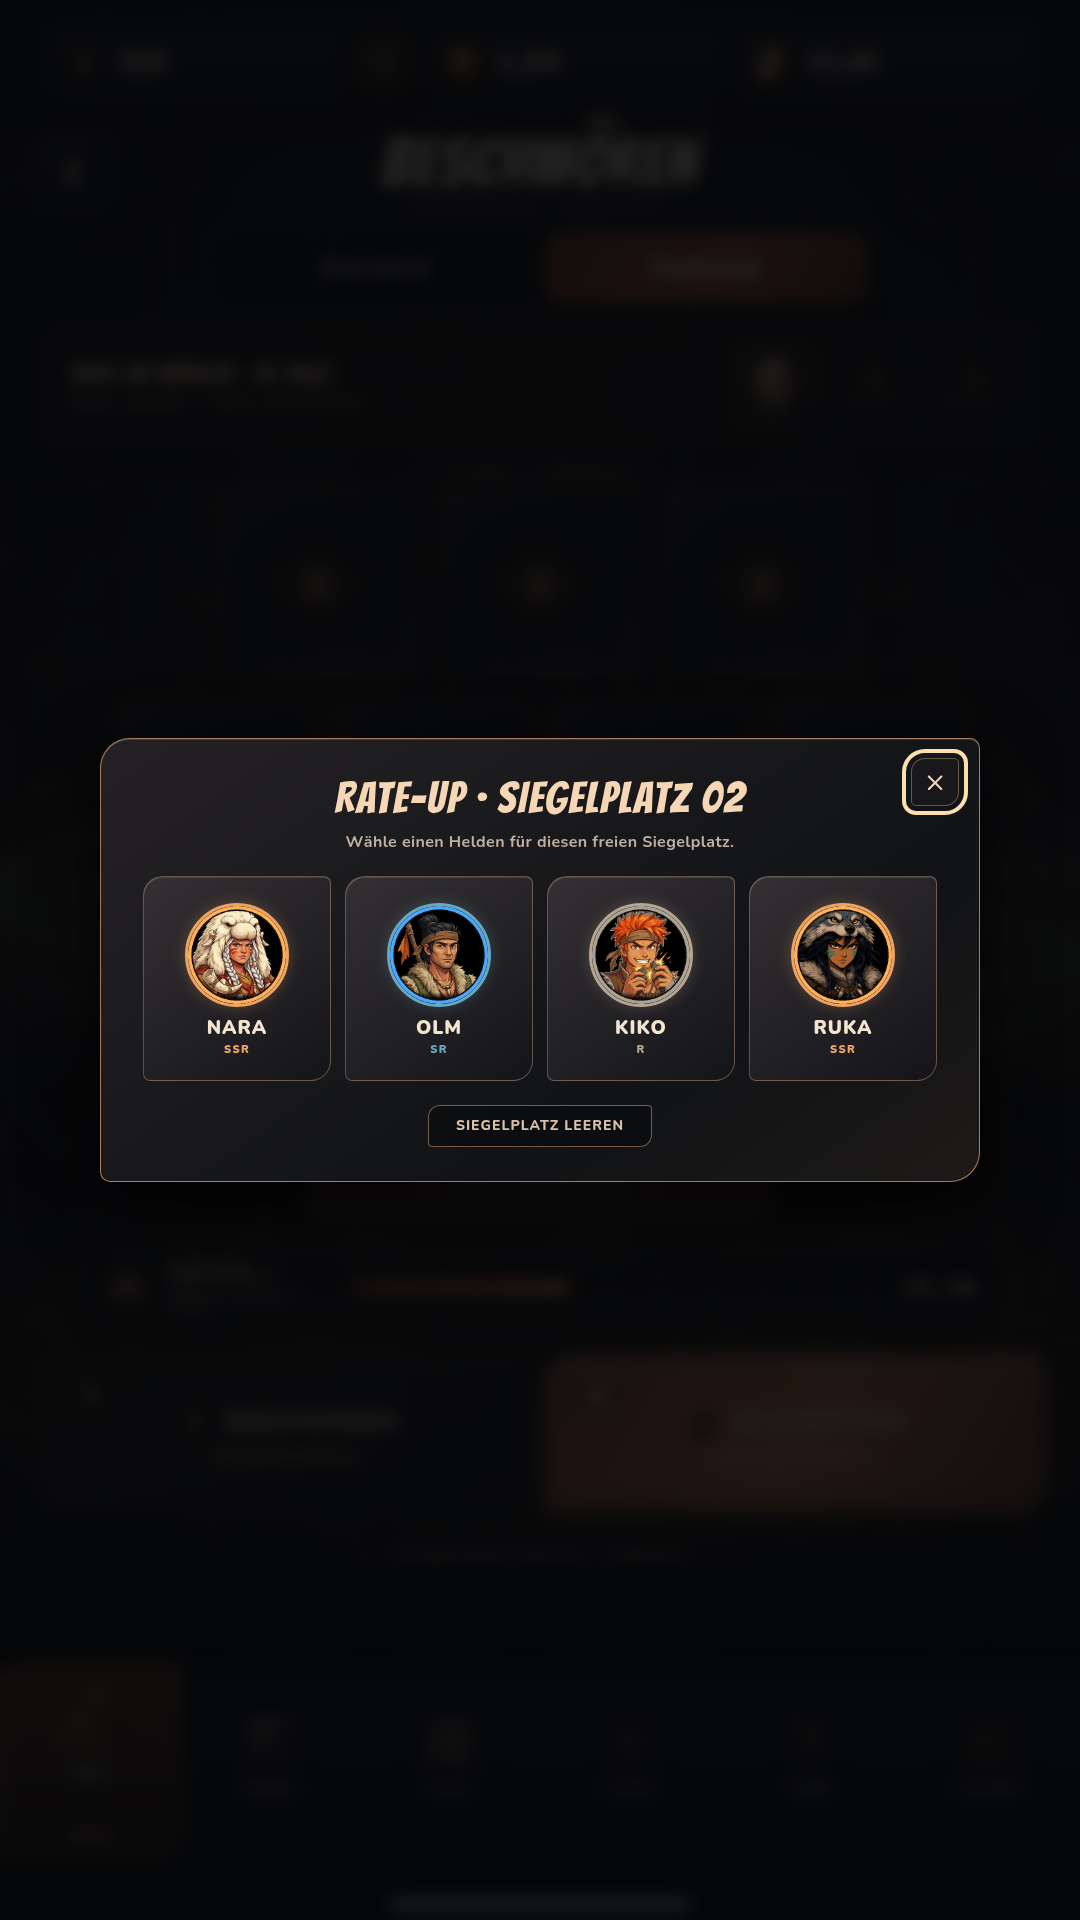
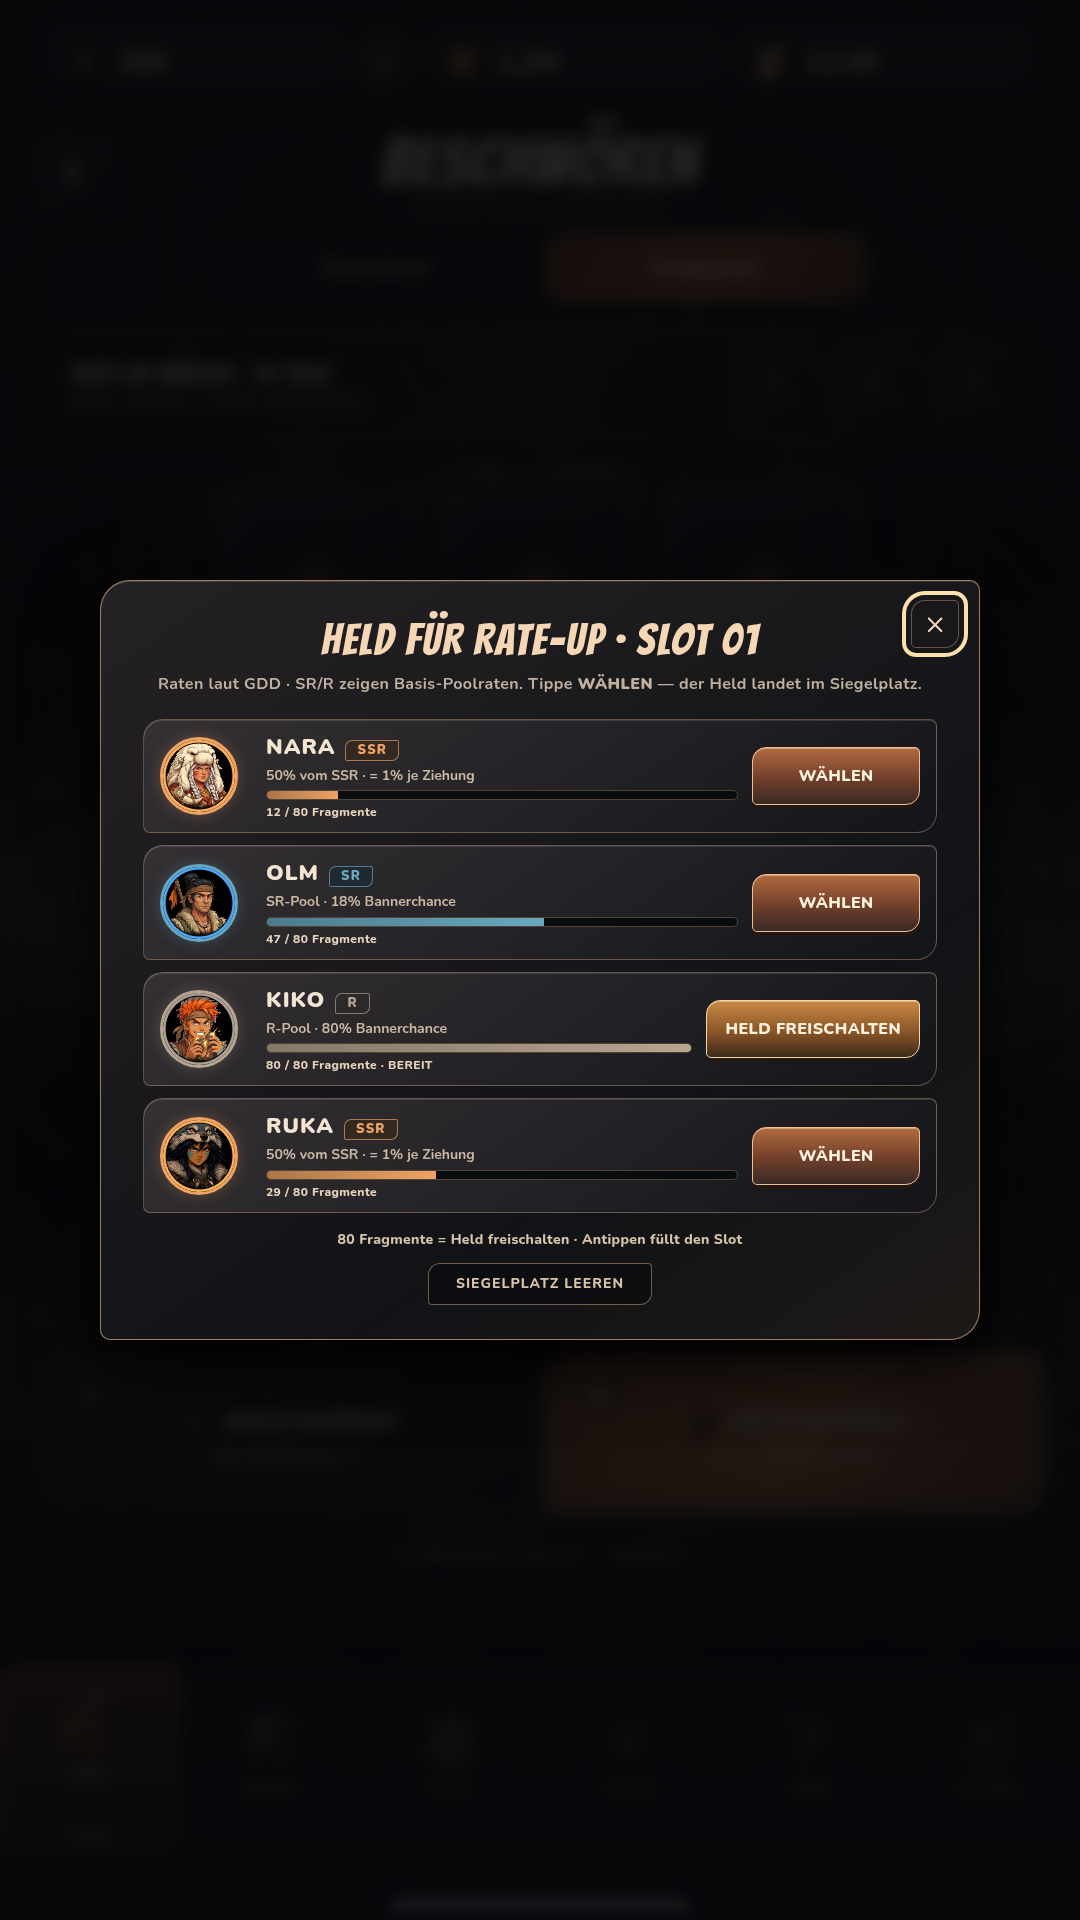
art(hud-d2): Reveal v16 Heldenwahl-Flow klarer
Picker als Liste mit Chance, Fragment-Bar und WÄHLEN-Button;
Screens: leer → Picker → gefüllt.

Changed region(s): [[0.0917, 0.2812, 0.9167, 0.6875], [0.825, 0.2812, 0.9167, 0.3438]]

diff --git a/team/art/ui-kit/menus_v3/_src/html/v3_2_obsidian_beschwoeren_reveal_v16_interaktiv.html b/team/art/ui-kit/menus_v3/_src/html/v3_2_obsidian_beschwoeren_reveal_v16_interaktiv.html
@@ -131,12 +131,23 @@ html[data-mode="standard"] .card-zone{top:366px}
 .picker-panel h2{margin:0;color:#f5d6b5;font:44px/1 Bangers;letter-spacing:1.7px}
 .picker-panel p{margin:12px 0 24px;color:#bfb09f;font:700 16px/1.3 Nunito;letter-spacing:.4px}
 .picker-close{position:absolute;right:20px;top:19px;width:48px;height:48px;border:1px solid rgba(212,168,128,.43);border-radius:14px 5px 14px 5px;background:#181719;color:#f2d6b7;font:32px/1 Nunito}
-.hero-options{display:grid;grid-template-columns:repeat(4,1fr);gap:14px}
-.hero-option{height:205px;display:flex;flex-direction:column;align-items:center;justify-content:center;border:1px solid rgba(211,171,136,.39);border-radius:20px 7px 20px 7px;background:linear-gradient(145deg,#343033,#141519);box-shadow:inset 0 1px 0 #fff2}
-.hero-option img{width:104px;height:104px;object-fit:cover;border:3px solid var(--rarity);border-radius:50%;box-shadow:0 0 15px color-mix(in srgb,var(--rarity) 28%,transparent)}
-.hero-option strong{margin-top:12px;color:#f4e5d2;font:900 19px/1 Nunito;letter-spacing:1px}
-.hero-option small{margin-top:6px;color:var(--rarity);font:900 11px/1 Nunito;letter-spacing:1.3px}
-.picker-clear{margin-top:24px;padding:13px 27px;border:1px solid rgba(205,159,119,.54);border-radius:12px 4px 12px 4px;background:rgba(11,12,14,.76);color:#d8c3aa;font:800 14px/1 Nunito;letter-spacing:1px}
+.hero-options{display:flex;flex-direction:column;gap:12px;max-height:980px;overflow:auto;text-align:left}
+.hero-option{display:grid;grid-template-columns:92px 1fr auto;gap:14px;align-items:center;padding:14px 16px;border:1px solid rgba(211,171,136,.39);border-radius:20px 7px 20px 7px;background:linear-gradient(145deg,#343033,#141519);box-shadow:inset 0 1px 0 #fff2;color:inherit;width:100%}
+.hero-option img{width:78px;height:78px;object-fit:cover;border:3px solid var(--rarity);border-radius:50%;box-shadow:0 0 15px color-mix(in srgb,var(--rarity) 28%,transparent)}
+.hero-meta{display:flex;flex-direction:column;gap:6px;min-width:0}
+.hero-meta .row{display:flex;align-items:baseline;gap:10px}
+.hero-meta strong{color:#f4e5d2;font:900 22px/1 Nunito;letter-spacing:1px}
+.hero-meta .rarity{color:var(--rarity);font:900 13px/1 Nunito;letter-spacing:1.2px}
+.hero-meta .chance{color:#cbb9a4;font:700 14px/1.25 Nunito}
+.frag-track{position:relative;height:10px;border-radius:6px;background:rgba(8,9,11,.88);border:1px solid rgba(214,169,122,.35);overflow:hidden}
+.frag-track>i{display:block;height:100%;width:var(--fill);background:linear-gradient(90deg,color-mix(in srgb,var(--rarity) 70%,#fff0),var(--rarity))}
+.frag-label{color:#e8d4bc;font:800 12px/1 Nunito;letter-spacing:.4px}
+.wahl-btn{min-width:168px;height:58px;padding:0 18px;border:1px solid #f1bf8c;border-radius:14px 5px 14px 5px;background:linear-gradient(180deg,#b26a3f,#703f2b 55%,#392a25);color:#fff2de;font:850 16px/1 Nunito;letter-spacing:.4px;box-shadow:inset 0 1px 0 rgba(255,246,231,.4),0 4px 0 #211714}
+.wahl-btn.ready{border-color:#f0d9a8;background:linear-gradient(180deg,#c98945,#8a5528 55%,#3d2a18)}
+.picker-hint{margin-top:18px;color:#d7c3aa;font:800 14px/1.3 Nunito;letter-spacing:.3px}
+.picker-clear{margin-top:14px;padding:13px 27px;border:1px solid rgba(205,159,119,.54);border-radius:12px 4px 12px 4px;background:rgba(11,12,14,.76);color:#d8c3aa;font:800 14px/1 Nunito;letter-spacing:1px}
+.rate-tap-hint{position:absolute;left:50%;top:248px;transform:translateX(-50%);z-index:11;padding:8px 16px;border:1px dashed rgba(233,170,110,.7);border-radius:12px;background:rgba(12,12,14,.88);color:#f0d6b4;font:800 13px/1 Nunito;letter-spacing:.6px;pointer-events:none;display:none}
+html[data-show-tap='1'] .rate-tap-hint{display:block}
 .rate-slot.has-hero{position:relative;overflow:hidden;border-style:solid;border-color:color-mix(in srgb,var(--rarity) 62%,#d1a173);padding:5px;background:linear-gradient(145deg,#392c26,#111316)}
 .rate-slot.has-hero img{width:42px;height:42px;object-fit:cover;border:2px solid var(--rarity);border-radius:50%}
 .rate-slot.has-hero .picked-name{max-width:70px;overflow:hidden;color:#f2dfc8;font:900 10px/1 Nunito;letter-spacing:.8px}
@@ -168,9 +179,10 @@ html[data-mode="standard"] .card-zone{top:366px}
 <div class="picker" id="picker" aria-hidden="true" role="dialog" aria-modal="true" aria-labelledby="picker-title">
   <div class="picker-panel">
     <button class="picker-close" id="picker-close" type="button" aria-label="Schließen">×</button>
-    <h2 id="picker-title">RATE-UP WÄHLEN</h2>
-    <p>Wähle einen Helden für diesen freien Siegelplatz.</p>
+    <h2 id="picker-title">HELD FÜR RATE-UP WÄHLEN</h2>
+    <p>Raten laut GDD · SR/R zeigen Basis-Poolraten. Tippe <b>WÄHLEN</b> — der Held landet im Siegelplatz.</p>
     <div class="hero-options" id="hero-options"></div>
+    <div class="picker-hint">80 Fragmente = Held freischalten · Antippen füllt den Slot</div>
     <button class="picker-clear" id="picker-clear" type="button">SIEGELPLATZ LEEREN</button>
   </div>
 </div>
@@ -209,10 +221,10 @@ html[data-mode="standard"] .card-zone{top:366px}
 (function(){
   'use strict';
   var heroes={
-    NARA:{name:'NARA',rarity:'SSR',tone:'#eea363',image:'../../_assets/reveal_v16/nara_circle.png'},
-    OLM:{name:'OLM',rarity:'SR',tone:'#67a9c1',image:'../../_assets/reveal_v16/olm_circle.png'},
-    KIKO:{name:'KIKO',rarity:'R',tone:'#b7a58f',image:'../../_assets/reveal_v16/kiko_circle.png'},
-    RUKA:{name:'RUKA',rarity:'SSR',tone:'#eea363',image:'../../_assets/reveal_v16/ruka_circle.png'}
+    NARA:{name:'NARA',rarity:'SSR',tone:'#eea363',image:'../../_assets/reveal_v16/nara_circle.png',chance:'50% vom SSR · = 1% je Ziehung',frags:12,ready:false},
+    OLM:{name:'OLM',rarity:'SR',tone:'#67a9c1',image:'../../_assets/reveal_v16/olm_circle.png',chance:'SR-Pool · 18% Bannerchance',frags:47,ready:false},
+    KIKO:{name:'KIKO',rarity:'R',tone:'#b7a58f',image:'../../_assets/reveal_v16/kiko_circle.png',chance:'R-Pool · 80% Bannerchance',frags:80,ready:true},
+    RUKA:{name:'RUKA',rarity:'SSR',tone:'#eea363',image:'../../_assets/reveal_v16/ruka_circle.png',chance:'50% vom SSR · = 1% je Ziehung',frags:29,ready:false}
   };
   var featuredTen=[
     {kind:'hero',hero:'NARA'},
@@ -324,10 +336,13 @@ html[data-mode="standard"] .card-zone{top:366px}
     activeSlot=slotIndex;
     picker.classList.add('open');
     picker.setAttribute('aria-hidden','false');
-    document.getElementById('picker-title').textContent='RATE-UP · SIEGELPLATZ '+String(slotIndex+1).padStart(2,'0');
+    document.getElementById('picker-title').textContent='HELD FÜR RATE-UP · SLOT '+String(slotIndex+1).padStart(2,'0');
     document.getElementById('hero-options').innerHTML=Object.keys(heroes).map(function(key){
       var hero=heroes[key];
-      return '<button class="hero-option" type="button" data-hero-choice="'+key+'" style="--rarity:'+hero.tone+'"><img src="'+hero.image+'" alt=""><strong>'+hero.name+'</strong><small>'+hero.rarity+'</small></button>';
+      var fill=Math.min(100, Math.round((hero.frags/80)*100))+'%';
+      var btn=hero.ready?'HELD FREISCHALTEN':'WÄHLEN';
+      var btnClass=hero.ready?'wahl-btn ready':'wahl-btn';
+      return '<div class="hero-option" style="--rarity:'+hero.tone+'"><img src="'+hero.image+'" alt=""><div class="hero-meta"><div class="row"><strong>'+hero.name+'</strong><span class="rarity">'+hero.rarity+'</span></div><div class="chance">'+hero.chance+'</div><div class="frag-track" style="--fill:'+fill+'"><i></i></div><div class="frag-label">'+hero.frags+' / 80 Fragmente'+(hero.ready?' · BEREIT':'')+'</div></div><button class="'+btnClass+'" type="button" data-hero-choice="'+key+'">'+btn+'</button></div>';
     }).join('');
     document.querySelectorAll('[data-hero-choice]').forEach(function(option){
       option.addEventListener('click',function(){setRateup(activeSlot,option.getAttribute('data-hero-choice'));closePicker()});
@@ -364,6 +379,7 @@ html[data-mode="standard"] .card-zone{top:366px}
       if(index<3 && key) setRateup(index,key);
     });
   }
+  if(params.get('tap')==='1'){document.documentElement.setAttribute('data-show-tap','1');}
   if(params.get('picker')==='1'){
     openPicker(Math.max(0, Math.min(2, parseInt(params.get('slot')||'0',10)||0)));
   }
